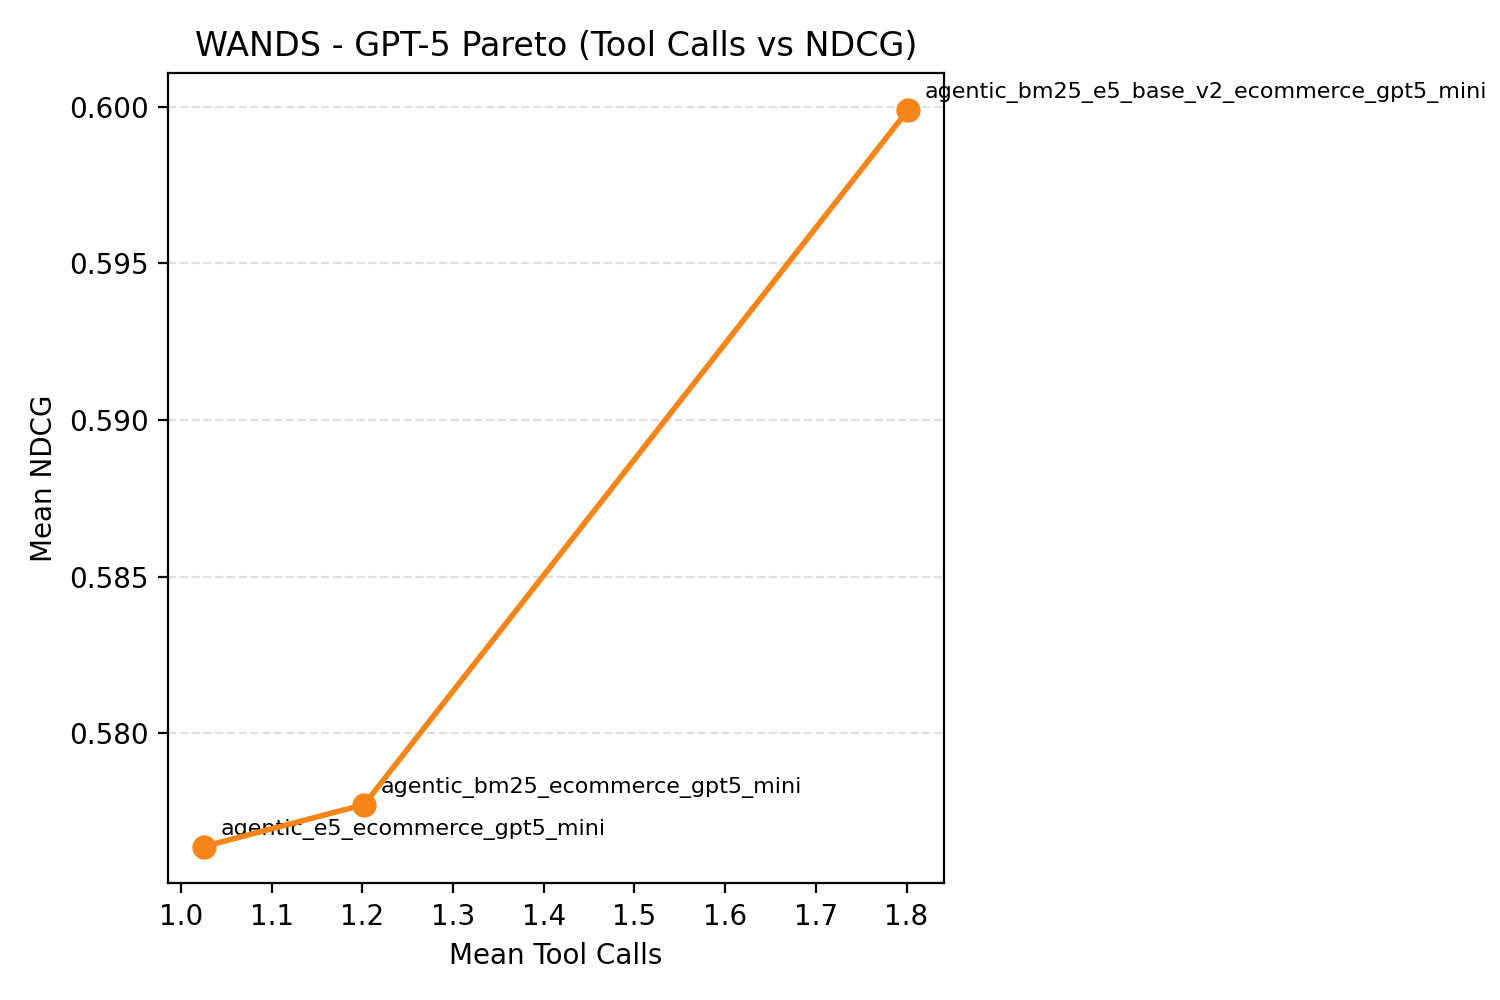
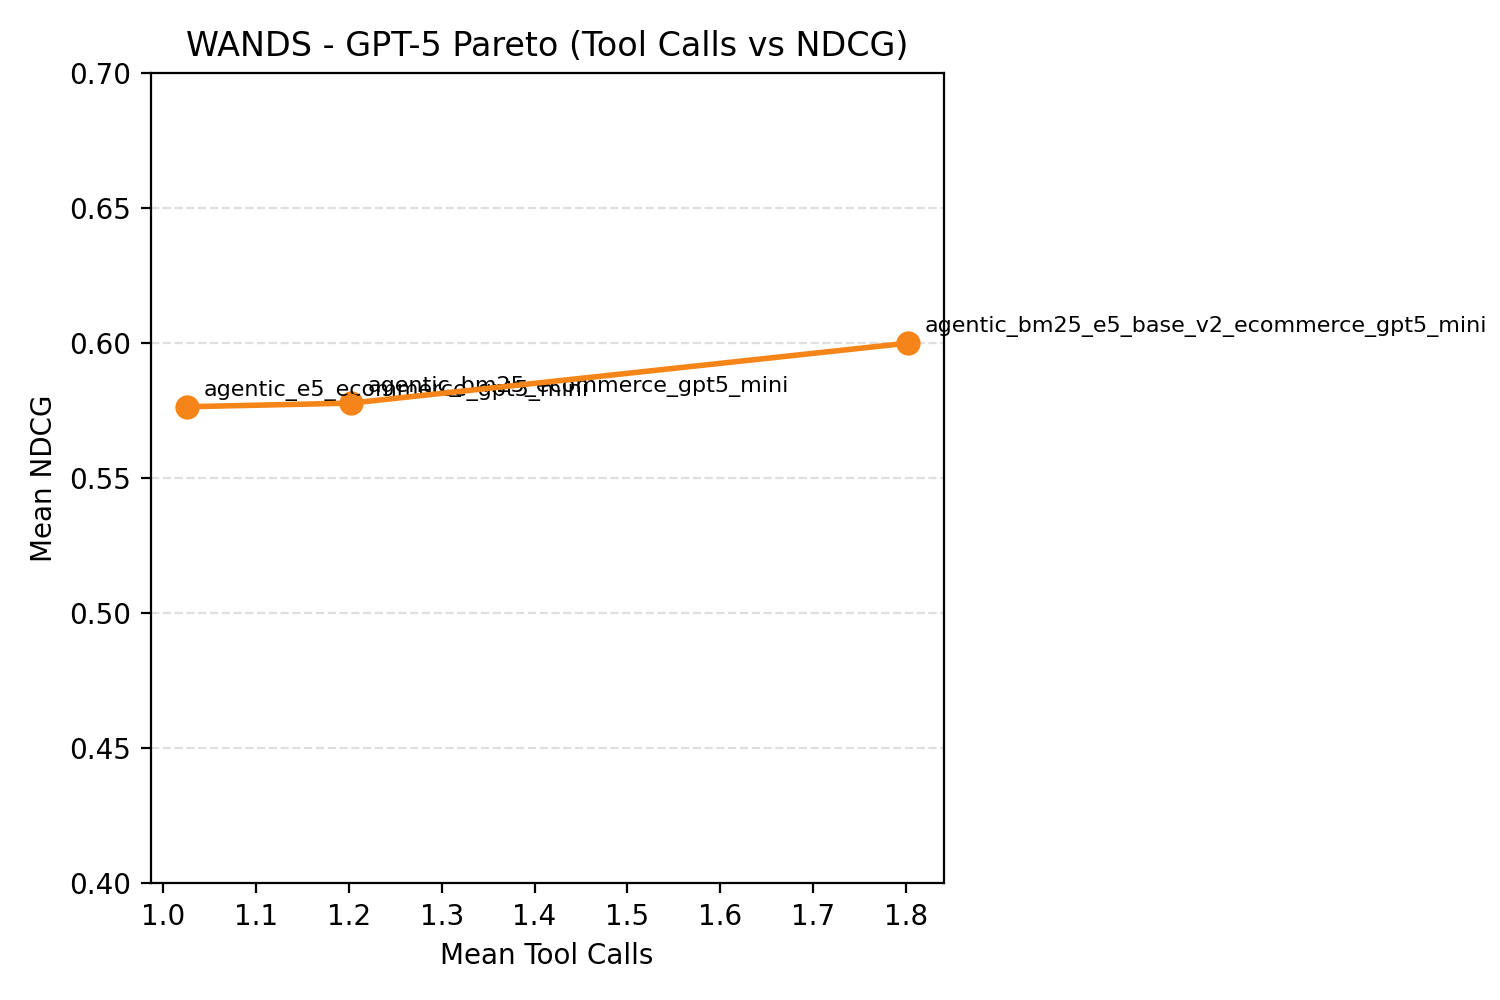
Adjust WANDS pareto axis
Expand the WANDS pareto y-axis range for readability.

diff --git a/scripts/plot_pareto_tool_calls.py b/scripts/plot_pareto_tool_calls.py
@@ -176,6 +176,8 @@ def _plot_dataset(rows: list[dict[str, float | str]], dataset: str, output_path:
     ax.set_ylabel("Mean NDCG")
     if dataset == "esci":
         ax.set_ylim(0.2, 0.5)
+    if dataset == "wands":
+        ax.set_ylim(0.4, 0.7)
     ax.grid(axis="y", linestyle="--", alpha=0.4)
     fig.tight_layout()
     fig.savefig(output_path, dpi=200)
